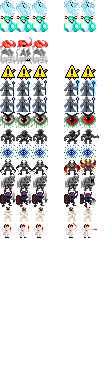
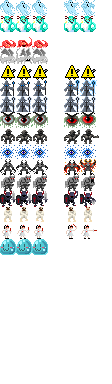
Hp scaling and drops (part 2) + nexus crier sprite update

Changed region(s): [[0.0, 0.5625, 0.4286, 0.6875], [0.7232, 0.5625, 0.8571, 0.625], [0.5893, 0.5625, 0.6964, 0.625]]

diff --git a/Server/wServer/logic/db/BehaviorDb.Abyss.cs b/Server/wServer/logic/db/BehaviorDb.Abyss.cs
@@ -12,6 +12,7 @@ namespace wServer.logic
         private _ Abyss = () => Behav()
             .Init("Archdemon Malphas",
                 new State(
+                    new ScaleHP(2400),
                     new GroundTransform(tileId: "Red Quad", radius: 2),
                     new State("default",
                         new PlayerWithinTransition(8, "basic")
@@ -74,7 +75,10 @@ namespace wServer.logic
                     new TierLoot(10, ItemType.Armor, 0.05),
                     new TierLoot(10, ItemType.Weapon, 0.05),
                     new TierLoot(4, ItemType.Ring, 0.025),
-                    new ItemLoot("Demon Blade", 0.022)
+                    new ItemLoot("Demon Blade", 0.005),
+                    new ItemLoot("Demon Helm", 0.005),
+                    new ItemLoot("Armor of the Greater Demon", 0.005),
+                    new ItemLoot("Ring of Demons", 0.005)
                 )
             )
             .Init("Malphas Missile",
@@ -181,6 +185,7 @@ namespace wServer.logic
             )
            .Init("Abyss Idol",
             new State(
+                new ScaleHP(5000),
                 new State("Deafault",
                 new ConditionalEffect(ConditionEffectIndex.Invulnerable),
                 new PlayerWithinTransition(dist: 4, targetState: "Phase 1")
@@ -203,7 +208,10 @@ namespace wServer.logic
                     new TierLoot(10, ItemType.Armor, 0.05),
                     new TierLoot(10, ItemType.Weapon, 0.05),
                     new TierLoot(4, ItemType.Ring, 0.025),
-                    new ItemLoot("Sword of Illumination", 0.022)
+                    new ItemLoot("Demon Blade", 0.001),
+                    new ItemLoot("Demon Helm", 0.001),
+                    new ItemLoot("Armor of the Greater Demon", 0.001),
+                    new ItemLoot("Ring of Demons", 0.001)
                      )
  
             );

diff --git a/Server/wServer/logic/db/BehaviorDb.Battlenexus.cs b/Server/wServer/logic/db/BehaviorDb.Battlenexus.cs
@@ -14,6 +14,7 @@ namespace wServer.logic
         private _ BattlefortheNexus = () => Behav()
             .Init("Oryx the Mad God Deux",
                 new State(
+                    new ScaleHP(13000),
                     new State("Nope",
                         new ConditionalEffect(ConditionEffectIndex.Invincible),
                         new EntityNotExistsTransition("NM Green Dragon God Deux", 999, "Attack")
@@ -73,6 +74,7 @@ namespace wServer.logic
               )
             .Init("NM Green Dragon God Deux",
                 new State(
+                    new ScaleHP(13000),
                     new SetAltTexture(1),
                     new StayCloseToSpawn(0.5, 24),
                     new HpLessTransition(0.05, "19"),
@@ -223,6 +225,7 @@ namespace wServer.logic
               )
                .Init("Archdemon Malphas Deux",
                 new State(
+                    new ScaleHP(8000),
                     new State("Nope",
                         new ConditionalEffect(ConditionEffectIndex.Invincible),
                         new EntityNotExistsTransition("Murderous Megamoth Deux", 999, "default")
@@ -329,6 +332,7 @@ namespace wServer.logic
             )
             .Init("Murderous Megamoth Deux",
              new State(
+                 new ScaleHP(6000),
                  new State("idle",
                      new Wander(0.2),
                      new Follow(5.0, 10, coolDown: 0),

diff --git a/Server/wServer/logic/db/BehaviorDb.EpicForestMaze.cs b/Server/wServer/logic/db/BehaviorDb.EpicForestMaze.cs
@@ -10,6 +10,7 @@ namespace wServer.logic
         private _ EForestMaze = () => Behav()
         .Init("Murderous Megamoth",
              new State(
+                 new ScaleHP(6000),
                  new State("idle",
                      new Wander(0.2),
                      new Follow(5.0, 10, coolDown: 0),
@@ -33,7 +34,10 @@ namespace wServer.logic
                     new ItemLoot("Wine Cellar Incantation", 0.01),
                     new ItemLoot("Potion of Vitality", 0.9),
                     new ItemLoot("Leaf Bow", 0.005)
-                )
+                ),
+                new Threshold(0.1,
+                    new ItemLoot("Potion of life", 0.8)
+                    )
             )
         .Init("Mini Larva",
             new State(
@@ -50,6 +54,7 @@ namespace wServer.logic
             )
         .Init("Epic Mama Megamoth",
             new State(
+                new ScaleHP(9000),
                 new HpLessTransition(.3, "change"),
                 new TransformOnDeath("Murderous Megamoth"),
                 new State("idle",
@@ -85,6 +90,7 @@ namespace wServer.logic
             )
         .Init("Epic Larva",
             new State(
+                new ScaleHP(9000),
                 new HpLessTransition(.3, "change"),
                 new HpLessTransition(.75, "shoot4"),
                 new TransformOnDeath("Epic Mama Megamoth"),

diff --git a/Server/wServer/logic/db/Custom/BehaviorDb.Asylum.cs b/Server/wServer/logic/db/Custom/BehaviorDb.Asylum.cs
@@ -20,6 +20,7 @@ namespace wServer.logic
 
         .Init("BedlamGod",
             new State(
+                new ScaleHP(1500),
             new Reproduce("ChaosGuardian", coolDown: 10000, densityMax: 6, densityRadius: 40),
 
                 //new Shoot(15, projectileIndex: 0, count: 1, coolDown: 600), //fire
@@ -57,7 +58,19 @@ namespace wServer.logic
                     new Shoot(15, projectileIndex: 2, count: 2, shootAngle: 40, coolDown: 2000), //blade
                     new Shoot(15, projectileIndex: 3, count: 8, shootAngle: 45, fixedAngle: 0, coolDown: 2500) //purple
                 )
-            )
+            ),
+            new Threshold(0.01,
+                new ItemLoot("Potion of Defense", 0.2),
+                new ItemLoot("Potion of Attack", 0.2),
+                new ItemLoot("Potion of Speed", 0.2),
+                new ItemLoot("Potion of Dexterity", 0.2),
+                new ItemLoot("Potion of Mana", 0.08),
+                new ItemLoot("Potion of Life", 0.07),
+                new ItemLoot("Unholy Staff", 0.005),
+                new ItemLoot("Unholy Spell", 0.005),
+                new ItemLoot("Unholy Robe", 0.005),
+                new ItemLoot("Unholy Wand", 0.005)
+                )
         )
 
         .Init("ChaosGuardian",

diff --git a/Server/wServer/logic/db/BehaviorDb.Avatar.cs b/Server/wServer/logic/db/BehaviorDb.Avatar.cs
@@ -11,6 +11,7 @@ namespace wServer.logic
         private _ Avatar = () => Behav()
             .Init("shtrs Defense System", //Avatar of the Forgotten King 
                 new State(
+                    new ScaleHP(15000),
                     new State("Normal1",
                         new ConditionalEffect(ConditionEffectIndex.Armored),
                         new HpLessTransition(0.80, "Phase1"), //Shadowman
@@ -357,7 +358,13 @@ namespace wServer.logic
                     new ItemLoot("Potion of Wisdom", .1),
                     new ItemLoot("Potion of Speed", .1),
                     new ItemLoot("Potion of Dexterity", .1),
-                    new ItemLoot("Tablet of the King's Avatar", 0.008)
+                    new ItemLoot("Tablet of the King's Avatar", 0.008),
+                    new ItemLoot("Royal Staff", 0.008),
+                    new ItemLoot("Robe of the King", 0.008),
+                    new ItemLoot("Ring of the Throne", 0.008),
+                    new ItemLoot("Staff of the Great Climbing", 0.01),
+                    new ItemLoot("Robe of the Battle Monk", 0.01), 
+                    new ItemLoot("The Bloody Legacy", 0.01)
                     )
             )
             .Init("shtrs Pillar 1", //Killer Pillar | Up Left

diff --git a/Server/wServer/logic/db/BehaviorDb.CrawlingDepths.cs b/Server/wServer/logic/db/BehaviorDb.CrawlingDepths.cs
@@ -8,8 +8,9 @@ namespace wServer.logic
     partial class BehaviorDb
     {
         private _ CrawlingDepths = () => Behav()
-                        .Init("Son of Arachna",
+          .Init("Son of Arachna",
                 new State(
+                    new ScaleHP(10000),
                     new RealmPortalDrop(),
                     new State("Idle",
                         new ConditionalEffect(ConditionEffectIndex.Invulnerable),
@@ -79,7 +80,7 @@ namespace wServer.logic
                                   new TierLoot(12, ItemType.Armor, 0.05),
                                   new TierLoot(13, ItemType.Armor, 0.04),
                                   new TierLoot(5, ItemType.Ring, 0.05),
-                                  new ItemLoot("Potion of Mana", 1),
+                                  new ItemLoot("Potion of Mana", 0.5),
                                   new ItemLoot("Doku No Ken", 0.02)
                                   )
                         )

diff --git a/Server/wServer/logic/db/Custom/BehaviorDb.Abilities.cs b/Server/wServer/logic/db/Custom/BehaviorDb.Abilities.cs
@@ -13,6 +13,7 @@ namespace wServer.logic
         private _ Abilities = () => Behav()
             .Init("Marble Pillar",
                 new State(
+                    new ConditionalEffect(ConditionEffectIndex.Invincible, true),
                     new State("start",
                         new TimedTransition(4500, "disappear"),
                         new GivePlayersEffect(3, ConditionEffectIndex.Armored),
